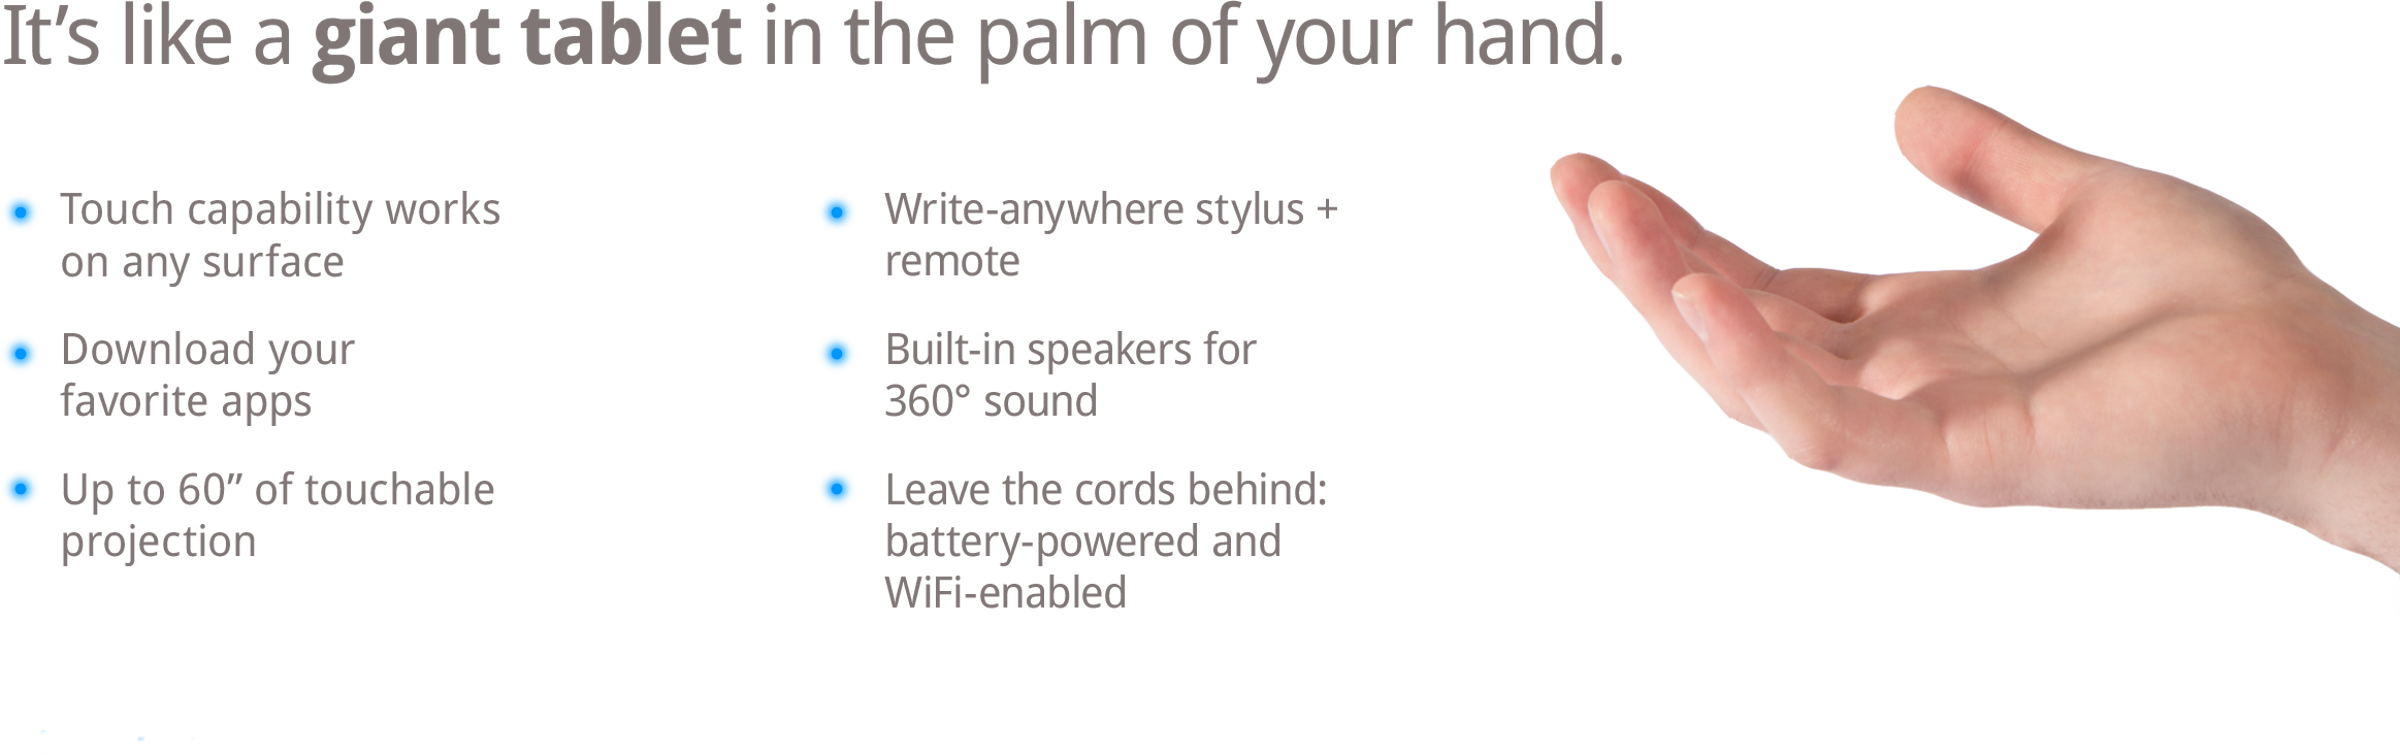
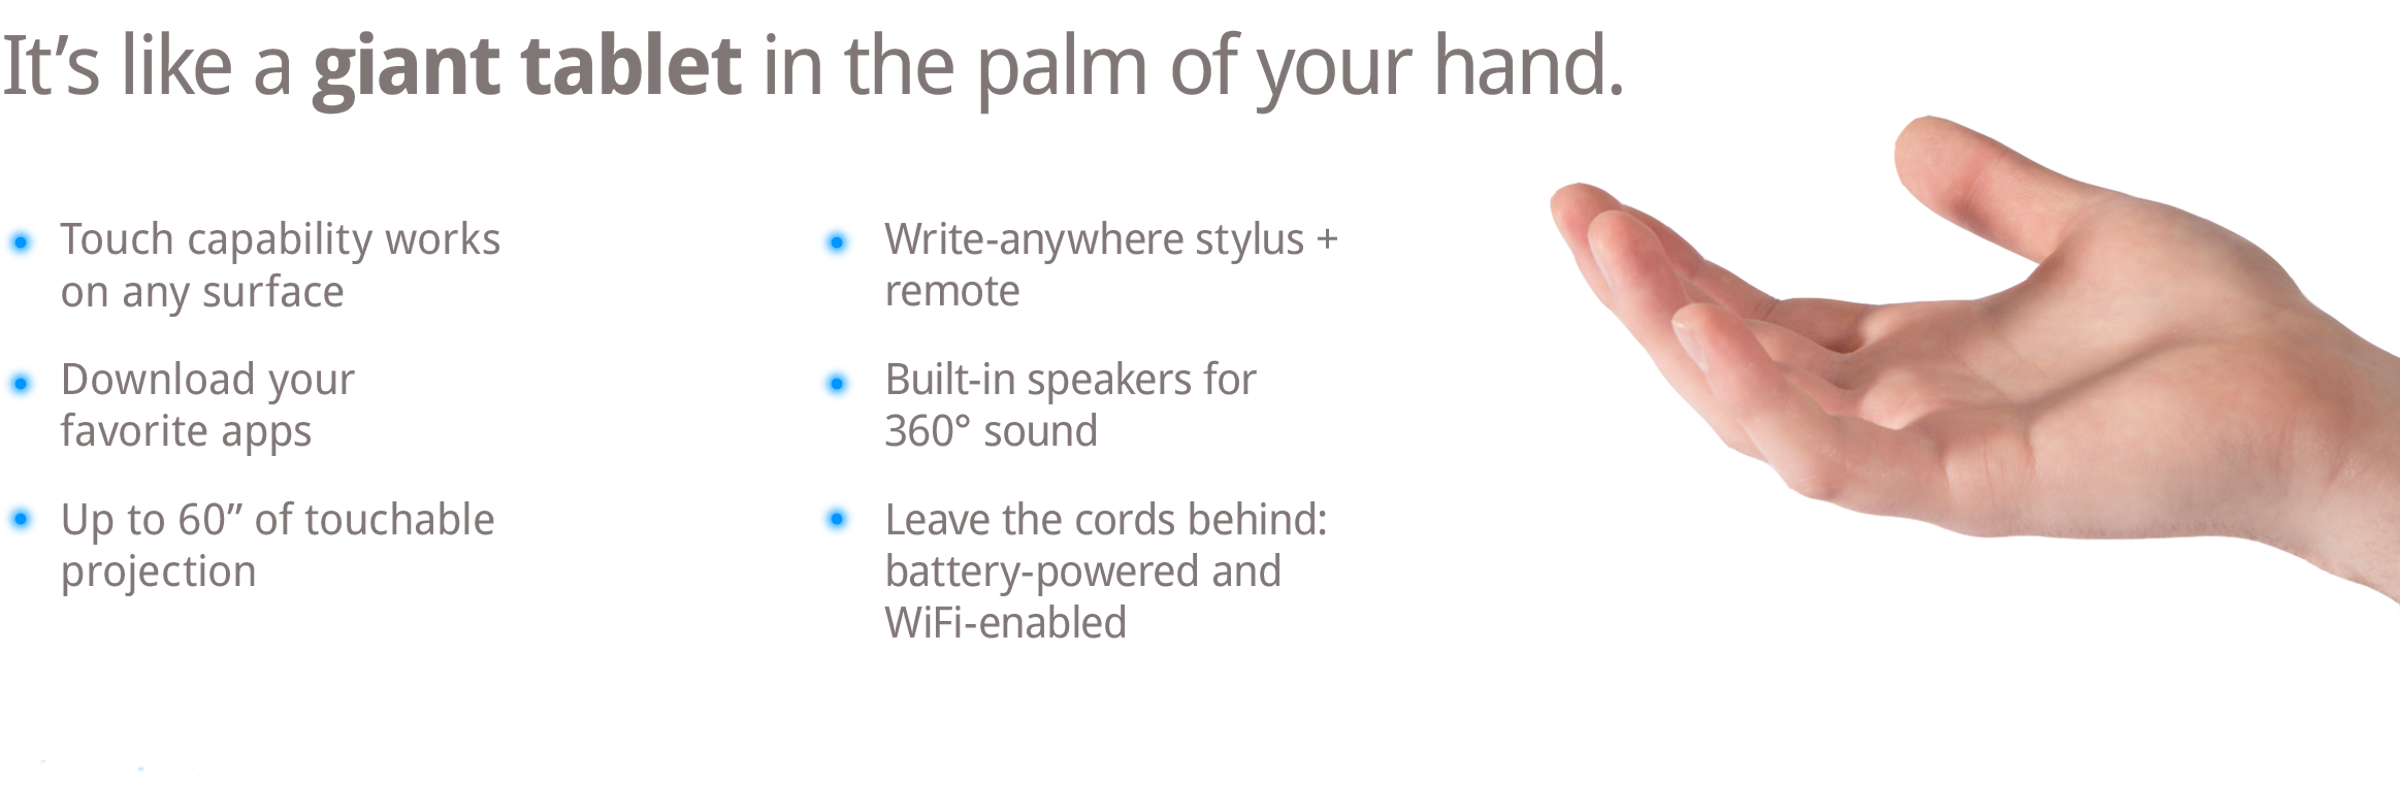
Image tweaks to eliminate overlaps

diff --git a/dcs-billboard-page.js b/dcs-billboard-page.js
@@ -99,7 +99,7 @@ jQuery(document).ready(function()  {
     	if( topLimit > ($window.height() * 0.85) )
     		topLimit = ($window.height() * 0.75);
     		
-    	bottomLimit = (5800)*scaleFactor; //As measured from top
+    	bottomLimit = (5830)*scaleFactor; //As measured from top
     	if( newWidth > 1400 ) 
     	{
     		bottomLimit -= (newWidth/1400)*20;

diff --git a/dcs-billboard-page.css b/dcs-billboard-page.css
@@ -177,7 +177,7 @@ hr.blue-line {
 }
 
 #bg-panel-7 { 
-    margin-top: 30px;
+    //margin-top: 30px;
     background-repeat: no-repeat;
     background-size: contain; 
 	background-color: #f3f2f2 !important;
